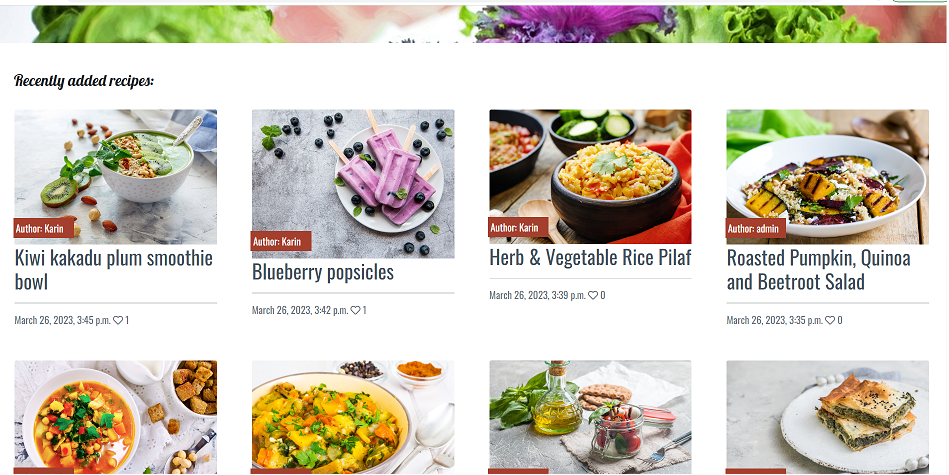
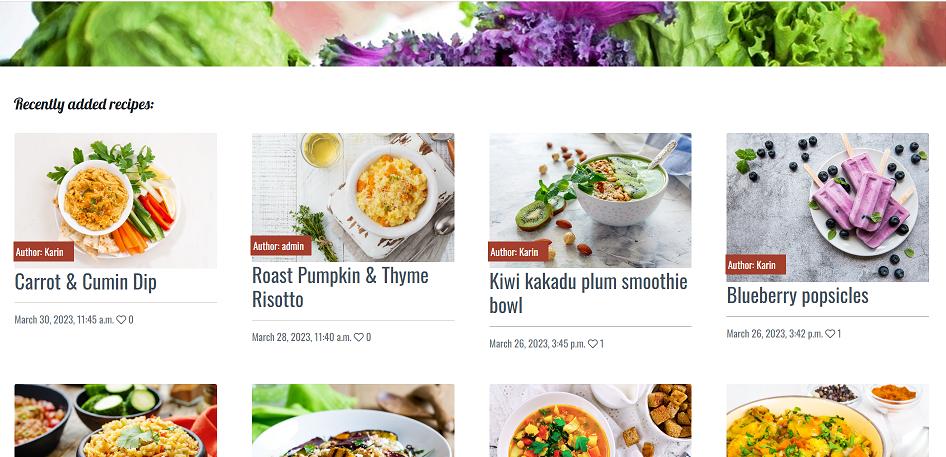
Add DeleteComment class to views.py

diff --git a/templates/search.html b/templates/search.html
@@ -15,7 +15,7 @@
       <div class="col-12 mt-4">
          <div class="row no-gutters">
             {% for post in page_obj %}
-            <div class="col-md-4">
+            <div class="col-md-3">
                <div class="card border-0 mb-4 all-recipes-cards">
                   <a href="{% url 'recipe_details' post.slug %}" class="text-decoration-none text-reset">
                      <div class="card-body">
@@ -36,7 +36,7 @@
                   </a>
                </div>
             </div>
-            {% if forloop.counter|divisibleby:3 %}
+            {% if forloop.counter|divisibleby:4 %}
          </div>
          <div class="row">
             {% endif %}

diff --git a/templates/edit_recipe.html b/templates/edit_recipe.html
@@ -3,7 +3,7 @@
 {% load static %}
 {% load cloudinary %}
 {% if user.is_authenticated and user.id == post.author.id %}
-<!-- TITLE -->
+<!-- title -->
 <div class="container">
    <div class="row">
       <div class="col-8 offset-2 text-center mt-5">

diff --git a/recipes/test_views.py b/recipes/test_views.py
@@ -1,0 +1,136 @@
+""" Test for views.py """
+from django.test import TestCase
+from django.contrib.auth.models import User
+from .models import Post, Comment
+
+
+class TestUser(TestCase):
+    """ user """
+    def test_user(self):
+        """ user """
+        test_user = User.objects.create_user(
+            username='testuser', password='654321'
+            )
+        self.post = Post.objects.create(title='Test', author=test_user)
+        self.comment = Comment.objects.create(
+            body='Test Comment', post=self.post
+            )
+        self.client.login(username="testuser", password="654321")
+
+
+class TestGetPages(TestCase):
+    """ test to ensure that all the pages display"""
+    def test_get_home_page(self):
+        """
+        Home page 
+        """
+        response = self.client.get('/')
+        self.assertEqual(response.status_code, 200)
+        self.assertTemplateUsed(response, 'index.html')
+
+
+    def test_get_about_page(self):
+        """
+        About Fodmaps page
+        """
+        response = self.client.get('/about/')
+        self.assertEqual(response.status_code, 200)
+        self.assertTemplateUsed(response, 'about.html')
+
+
+
+    def test_get_all_recipes_page(self):
+        """
+        All recipes page
+        """
+        response = self.client.get('/all_recipes')
+        self.assertEqual(response.status_code, 200)
+        self.assertTemplateUsed(response, 'all_recipes.html')
+
+    def test_get_fav_recipes_page(self):
+        """
+        Favourite recipes page
+        """
+        response = self.client.get('/favourite_recipes')
+        self.assertEqual(response.status_code, 200)
+        self.assertTemplateUsed(response, 'favourite_recipes.html')
+
+    def test_get_my_recipes_page(self):
+        """
+        My recipes page
+        """
+        response = self.client.get('/my_recipes')
+        self.assertEqual(response.status_code, 200)
+        self.assertTemplateUsed(response, 'my_recipes.html')
+
+    def test_get_add_recipes_page(self):
+        """
+        Add recipes page
+        """
+        response = self.client.get('/add_recipe')
+        self.assertEqual(response.status_code, 200)
+        self.assertTemplateUsed(response, 'add_recipe.html')
+
+    def test_recipe_details_page(self):
+        """
+        Recipe details page
+        """
+        posts = Post.objects.all()
+        for post in posts:
+            response = self.client.get(f'/recipe_details/{self.post.id}')
+            self.assertEqual(response.status_code, 200)
+            self.assertTemplateUsed(response, 'recipe_details.html')
+
+    def test_edit_recipe_page(self):
+        """
+        Edit recipe page 
+        """
+        posts = Post.objects.all()
+        for post in posts:
+            response = self.client.get(f'/edit_recipe/{self.post.id}')
+            self.assertEqual(response.status_code, 200)
+            self.assertTemplateUsed(response, 'edit_recipe.html')
+
+    def test_delete_recipe_page(self):
+        """
+        Delete recipe page 
+        """
+        posts = Post.objects.all()
+        for post in posts:
+            response = self.client.get(f'/delete_recipe/{self.post.id}')
+            self.assertEqual(response.status_code, 200)
+            self.assertTemplateUsed(response, 'delete_recipe.html')
+
+
+    def test_edit_comment_page(self):
+        """
+        Edit comment page 
+        """
+        comments = Comment.objects.all()
+        for comment in comments:
+            response = self.client.get(f'/edit_comment/{self.comment.id}')
+            self.assertEqual(response.status_code, 200)
+            self.assertTemplateUsed(response, 'edit_comment.html')
+
+    def test_delete_comment_page(self):
+        """
+        Delete comment page 
+        """
+        comments = Comment.objects.all()
+        for comment in comments:
+            response = self.client.get(f'/delete_comment/{self.comment.id}')
+            self.assertEqual(response.status_code, 200)
+            self.assertTemplateUsed(response, 'delete_comment.html')
+
+
+    def test_search_page(self):
+        """
+        Search page 
+        """
+        response = self.client.get('/search')
+        self.assertEqual(response.status_code, 200)
+        self.assertTemplateUsed(response, 'search.html')
+
+
+
+

diff --git a/fodmap_recipes/settings.py b/fodmap_recipes/settings.py
@@ -110,16 +110,16 @@ WSGI_APPLICATION = 'fodmap_recipes.wsgi.application'
 # Database
 # https://docs.djangoproject.com/en/3.2/ref/settings/#databases
 
-#DATABASES = {
-#    'default': {
-#        'ENGINE': 'django.db.backends.sqlite3',
-#        'NAME': BASE_DIR / 'db.sqlite3',
-#    }
-#}
-
 DATABASES = {
-   'default': dj_database_url.parse(os.environ.get("DATABASE_URL"))
+    'default': {
+        'ENGINE': 'django.db.backends.sqlite3',
+        'NAME': BASE_DIR / 'db.sqlite3',
+    }
 }
+
+#DATABASES = {
+#   'default': dj_database_url.parse(os.environ.get("DATABASE_URL"))
+#}
 
 
 

diff --git a/README.md b/README.md
@@ -208,7 +208,7 @@ The recipe details page consists of the recipe uploaded by the user displaying t
 
 ![Recipe details](static/assets/images/recipe-details2.png)
 
-Under the recipe secion there comes the like and comment section. When logged in the user can like and comment the recipe. To like a recipe you click the heart icon and it then changes color from transparent to red (or back to transparent if unlike).
+Under the recipe secion there comes the like and comment section. When logged in the user can like and comment the recipe. To like a recipe you click the heart icon and it then changes color from transparent to red (or back to transparent if unlike). The user can also see the number of comments made on that recipe.
 
 ![Recipe details](static/assets/images/likes.png)
 
@@ -346,8 +346,104 @@ The testing approach is as follows:
 
 ### Manual testing of user stories
 
-![Manual testing of user stories](static/assets/images/userstories-test.png)
+The user stories are found here: [User stories](https://github.com/users/Karasp1980/projects/7)
+an here [User stories Issues](https://github.com/Karasp1980/Fodmap-recipes/issues)
 
+
+![Manual testing of user stories](static/assets/images/userstories.png)
+
+
+**Superuser / Admin**
+- As a site Admin I can create, edit and delete recipes and comments so that I can manage the site content
+- As a site Admin I can access the admin panel so that I can manage recipes and comments
+- As a site Admin I can log out of the admin panel so that I can disconnect from the website
+
+This was tested by accessing the Django Admin Panel. By creating a Superuser we can access the Django Admin Panel where the administrator can perform all the CRUD functionalitis
+
+**User Interaction**
+1. As a logged-in User I can write comments on recipes so that I can leave my feedback
+
+<p align="center">
+<img src="static/assets/images/comment2.png" width="300" height="auto">
+</p>
+
+2. As a logged-in User I can like and unlike recipes so that I can mark which recipes I like
+<p align="center">
+<img src="static/assets/images/number-of-likes.png" width="300" height="auto">
+</p>
+
+3. As a User I can view the number of likes on recipes so that I can see which recipes are the most popular
+<p align="center">
+<img src="static/assets/images/number-of-comments.png" width="300" height="auto">
+</p>
+
+4. As a User I can view comments on recipes so that I can read other users opinions
+<p align="center">
+<img src="static/assets/images/comment.png" width="300" height="auto">
+</p>
+
+**User Recipes**
+1. As a logged-in User I can post a recipes so that other users can see them
+<p align="center">
+<img src="static/assets/images/add-recipe-button.png" width="300" height="auto">
+<img src="static/assets/images/add-recipe.png" width="300" height="auto">
+</p>
+2. As a User I can delete my recipes so that I can remove any unwanted recipes that I have made
+<p align="center">
+<img src="static/assets/images/delete-recipe-button.png" width="300" height="auto">
+</p>
+3. As a User I can edit recipes so that I can update any changes or mistakes to my recipes
+<p align="center">
+<img src="static/assets/images/edit-recipe-button.png" width="300" height="auto">
+</p>
+4. As a logged-in User I can upload an image along with my recipe so that other users can see what the dish looks like
+<p align="center">
+<img src="static/assets/images/upload-image.png" width="300" height="auto">
+</p>
+
+
+**Login/Register**
+1. As a User I can register for an account so that I can interact with the site content
+<p align="center">
+<img src="static/assets/images/register-nav.png" width="300" height="auto">
+</p>
+
+2. As a User I can log in/out off my account if I wish so that I can connect or disconnect from the website
+<p align="center">
+<img src="static/assets/images/login-nav.png" width="300" height="auto">
+</p>
+
+<p align="center">
+<img src="static/assets/images/logout-nav.png" width="300" height="auto">
+</p>
+
+3. As a User I can easily see if I'm logged-in or logged-out so that I can be sure what my status is
+<p align="center">
+<img src="static/assets/images/login-message.png" width="500" height="auto">
+</p>
+<p align="center">
+<img src="static/assets/images/logout-message.png" width="500" height="100%">
+</p>
+
+**Navigation**
+1. As a User I can easily navigate through the site so that I can view desired content
+<p align="center">
+<img src="static/assets/images/fodmap-welcome.png" width="500" height="auto">
+</p>
+
+2. As a User I can search the desirable recipe by keyword so that I can find the recipe I want faster
+<p align="center">
+<img src="static/assets/images/search.png" width="500" height="auto">
+</p>
+3. As a User I can see the most loved recipes so that I can quickly find inspiration and see which recipes are most famous
+<p align="center">
+
+</p>
+
+4. As a User I can see the recently recipes so that I can keep up to date with the latest recipes
+<p align="center">
+<img src="static/assets/images/recently-added-recipes.png" width="500" height="auto">
+</p>
 
 
 ### Automated testing
